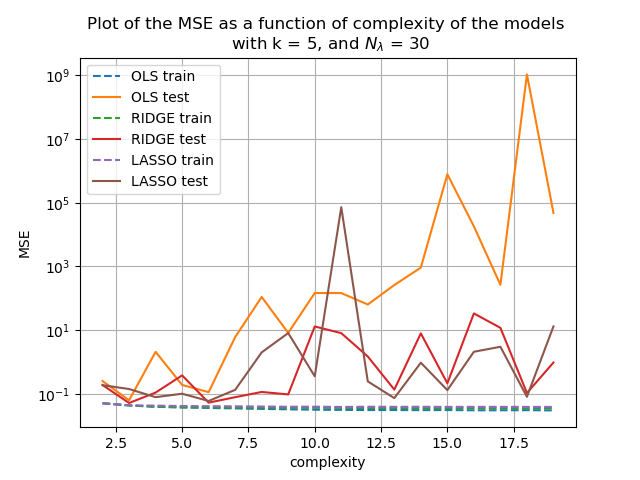
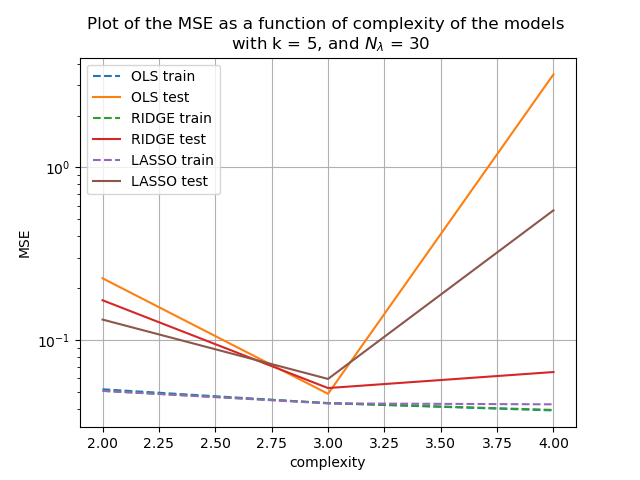
Bootstrap runs properly, task 3, 5 and 6 scripts now  produces the correct plots

diff --git a/projects/1project/regan/run_and_plot.py b/projects/1project/regan/run_and_plot.py
@@ -98,8 +98,7 @@ def run_plot_compare(datapoints, title, n_resampling, N = 50, plot=False, n_lamb
     BS_variance = []
     BS_runtimes = []
     for solver in solvers:
-        bias2, variance, error = bias_variance_complexity(x,y,z,m,n_resampling=n_resampling,plot=False,solver=solver,n_lambdas=n_lambdas)
-        bias = np.zeros(bias2.shape); np.sqrt(bias2,bias)
+        bias, variance, error = bias_variance_complexity(x,y,z,m,n_resampling=n_resampling,plot=False,solver=solver,n_lambdas=n_lambdas)
         BS_bias.append(bias)
         BS_error.append(variance)
         BS_variance.append(error)
@@ -111,7 +110,7 @@ def run_plot_compare(datapoints, title, n_resampling, N = 50, plot=False, n_lamb
         BS_complexity = [x for x in range(1,m)]
         lns = []
         for i in range(len(solvers)):
-            lns.append(ax3.plot(BS_complexity,BS_bias[i], label =solvers[i]+" bias"))
+            lns.append(ax3.plot(BS_complexity,BS_bias[i], label =solvers[i]+" bias$^2$"))
             lns.append(ax3.plot(BS_complexity,BS_error[i], label =solvers[i]+ " error", linestyle = 'dashed'))
             lns.append(ax3.plot(BS_complexity,BS_variance[i], label =solvers[i]+ " variance", linestyle = 'dotted') )
 

diff --git a/projects/1project/task5.py b/projects/1project/task5.py
@@ -11,4 +11,4 @@ mu_N = 0; sigma_N = 0.2
 # Create vanilla dataset:
 x,y,z = create_xyz_dataset(n,mu_N, sigma_N)
 
-run_plot_compare(z,'Task 5 Franke Function', 100, N=n, n_lambdas=30, k=5,poly_degree = 20,plot=True,saveplots=True)
+run_plot_compare(z,'Task 5 Franke Function', 100, N=n, n_lambdas=30, k=5,poly_degree = 5,plot=True,saveplots=True)
